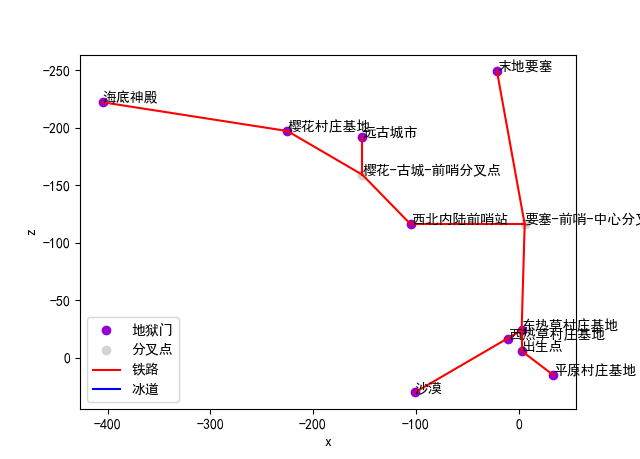
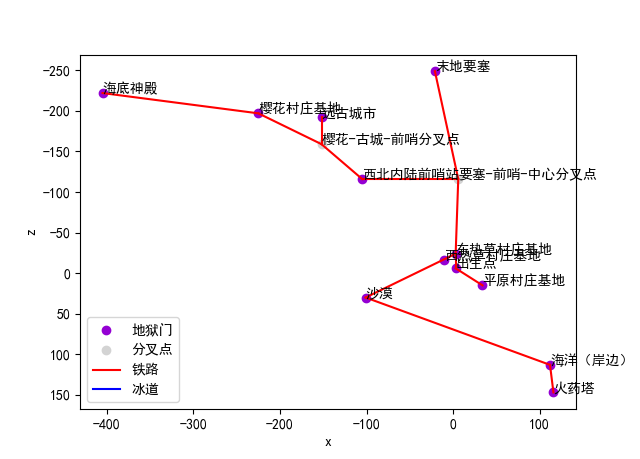
淦，忘pull了

diff --git a/README.md b/README.md
@@ -24,6 +24,7 @@
 - 标注节点名字
 - 清晰的图例
 - z 轴反转（即上北下南左西右东）
+- 节点改名
 
 ## 使用
 
